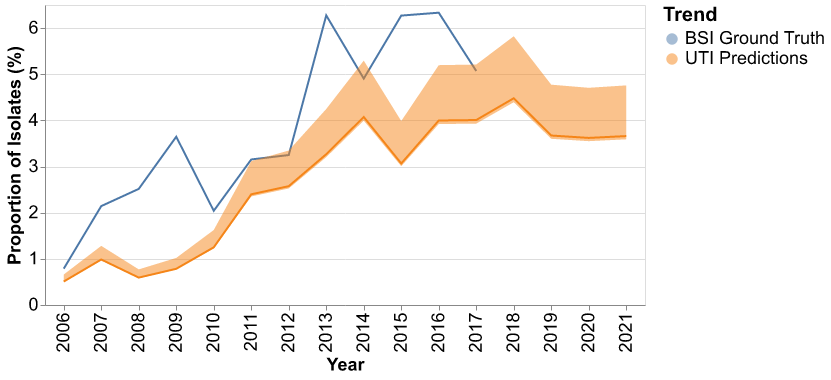
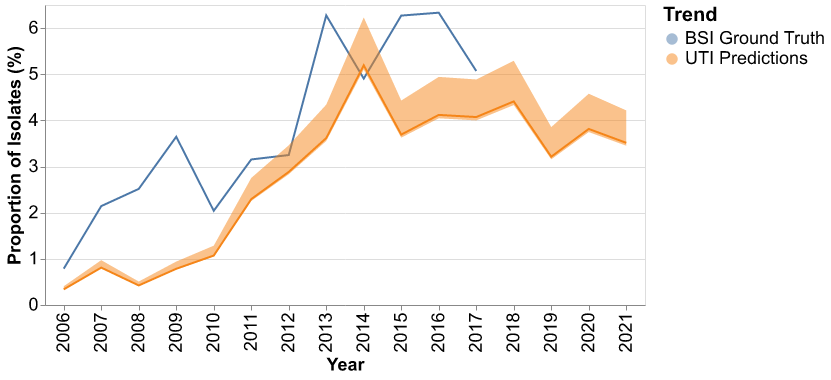
Forcing up-to-date results

Changed region(s): [[0.0602, 0.0579, 0.7521, 0.7526]]

diff --git a/scripts/main.py b/scripts/main.py
@@ -144,9 +144,9 @@ if __name__=="__main__":
     split_uti_df[savecols].to_csv(f"output/UTI-split.predictions.csv")
 
     ## Compute results of the chosen model
-    best_model = "Random Forest"
+    # best_model = "Random Forest"
     # best_model = "XGBoost"
-    keep_cols = split_uti_df.columns[:4].tolist() + [best_model]
+    keep_cols = split_uti_df.columns[:4].tolist() + ["Random Forest", "XGBoost"]
     predictClassifiers(split_uti_df[keep_cols], split_norm_err, prefix="UTI-split", truth_trend=bsi_true_fraction)
     predictClassifiers(uti_df[keep_cols], whole_norm_err, prefix="UTI-combined", truth_trend=bsi_true_fraction)
 

diff --git a/scripts/classifierutils.py b/scripts/classifierutils.py
@@ -408,7 +408,8 @@ def predictClassifiers(df:pd.core.frame.DataFrame, err_df:pd.core.frame.DataFram
     '''    
 
     ## Define the best classifier
-    cname = "Random Forest"
+    # cname = "Random Forest"
+    cname = "XGBoost"
 
     ## Use the truth trend as an initial dataframe
     alt_df = truth_trend.copy()
